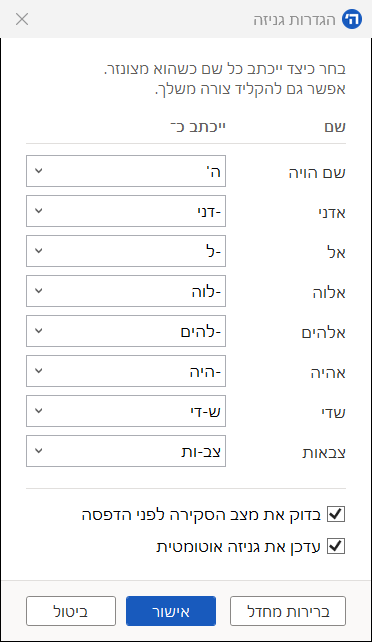
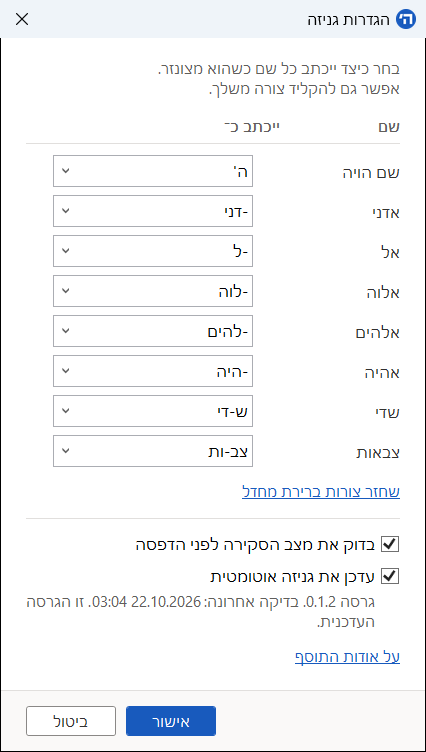
Refresh README with release badge, screenshot walkthrough and halachic background
Align the introduction with the About dialog and show the latest add-in release. Present review, print checks and settings in a compact screenshot layout, using the installed 0.1.2 settings capture.

Add the halachic background with Hebrew source references and clarify the model's limitations.

diff --git a/README.md b/README.md
@@ -1,35 +1,44 @@
 # Genizah
 
-A Word add-in that finds the divine names in a Hebrew document and censors them for you.
+[![Latest version](https://img.shields.io/github/v/release/Pituchey-Hotam/Genizah?filter=v*&label=latest%20version)](https://github.com/Pituchey-Hotam/Genizah/releases/latest)
 
-Once one of the names is written, the paper it's on can't simply be thrown away; it needs
-genizah. Writing the name in a modified form (אלקים for אלהים, ה' for יהוה) avoids that, but
-going through a long document by hand is slow and easy to get wrong. And it isn't a matter of
-search and replace: אל is usually just "to", and אלהים can mean judges or foreign gods. Genizah
-reads each occurrence in its context, censors the ones it's sure are divine names, leaves the
-ones it's sure aren't, and asks you about the rest.
+Genizah is a Word add-in that automatically finds divine names in Hebrew documents and changes
+their spelling, including names that require understanding the context.
+
+Finding these names takes more than search and replace: אל can be a preposition, and אלהים can
+refer to judges or foreign gods. Genizah uses a completely local AI model trained on the Hebrew Bible, prayer
+books and modern Torah articles to estimate whether each occurrence is a divine name. It
+changes likely divine names to modified spellings, leaves likely ordinary uses, and asks you
+to review uncertain cases. The model runs entirely on your computer; your text is never sent
+to an external service. Only update checks need an internet connection.
 
 ![The review pane beside a document](docs/images/review-pane.png)
 
-## How it works
+## Genizah in action
 
-1. **Scan.** Click **סקירת שמות** in the **גניזה** group on Word's **סקירה** (Review) tab. Genizah scans the
-   document and opens a review pane beside it.
-2. **It sorts the names.** Every name it finds goes into one of three groups:
-   - **לצנזר**: divine names. Genizah censors these right away.
-   - **להשאיר**: ordinary words that happen to share the spelling. Left as they are.
-   - **לא בטוח**: the ones it isn't sure about. These wait for you.
-3. **Review.** Go through **לא בטוח**. Each row shows the name in its sentence; select it and
-   Word jumps to the spot in the document. Choose **צנזר** or **השאר**. You can also check the
-   other two groups and change any decision; a censored name can be restored.
+Click <strong>סקירת שמות</strong> in the <strong>גניזה</strong> group on Word's
+<strong>סקירה</strong> (Review) tab to scan the document and open the review pane.
 
-   ![Deciding an uncertain name](docs/images/review-ask.png)
-
-4. **Print.** If you print with names still waiting for a decision, or without having
-   reviewed the document, Genizah asks first, so that nothing goes out uncensored by
-   accident.
-
-   ![The check before printing](docs/images/print-check.png)
+<table>
+<tr>
+<td width="65%" valign="top">
+<p><strong>Review the results.</strong> Names are grouped as <strong>לצנזר</strong> (censored
+automatically), <strong>להשאיר</strong> (left unchanged), or <strong>לא בטוח</strong> (needs your
+decision). Select a row to jump to its place in the document, then choose <strong>צנזר</strong>
+or <strong>השאר</strong>. You can change any decision and restore censored names.</p>
+<a href="docs/images/review-ask.png"><img src="docs/images/review-ask.png" alt="Deciding an uncertain name" width="520"></a>
+<p><strong>Print with a final check.</strong> If names still need a decision, or the document
+hasn't been reviewed, Genizah asks before printing.</p>
+<a href="docs/images/print-check.png"><img src="docs/images/print-check.png" alt="The check before printing" width="520"></a>
+</td>
+<td width="35%" valign="top">
+<p><strong>Choose your settings.</strong> Open the small arrow in the <strong>גניזה</strong>
+ribbon group to choose each name's spelling, toggle print checks and automatic updates,
+and see the installed version and update status.</p>
+<a href="docs/images/settings.png"><img src="docs/images/settings.png" alt="The settings dialog" width="260"></a>
+</td>
+</tr>
+</table>
 
 ## Installing
 
@@ -39,8 +48,28 @@ needs Word for Windows (64-bit). The model is included and runs on your own comp
 documents never leave it and no internet connection is needed. When one is available, Genizah
 updates itself in the background.
 
-**Genizah is an aid, not a guarantee.** It can miss a name or censor a word that isn't one;
-review the document before relying on it.
+**Genizah is an aid, not a guarantee.** It can censor nondivine words; and in rare cases miss a name.
+Review the results before relying on it.
+
+## Halachic background
+
+Maimonides (רמב״ם, הלכות יסודי התורה ו, ב) rules that erasing one of the seven
+divine names is prohibited מדאורייתא; this is also codified in the
+שו״ע. Authorities disagree about biblical verses and Torah writings that do not
+contain divine names. They agree that treating such writings disrespectfully or discarding
+them is prohibited, but differ over the status and conditions of that prohibition.
+
+The add-in was written for the practice followed at Yeshivat Birkat Moshe in Ma'ale Adumim,
+based on the ruling of its Rosh Yeshiva, Rabbi Nahum Eliezer Rabinovitch (שו״ת שיח נחום, סימן עד).
+Following Maimonides, he ruled that the prohibition concerning Torah writings
+without divine names is rabbinic. Under the conditions detailed in that responsum, such pages
+may therefore be placed in the trash or recycled respectfully. In contrast, for pages containing
+explicit divine names require genizah מדאורייתא, must be treated as Shemot and be disposed of accordingly.
+
+**The add-in does not guarantee that a document is exempt from genizah according to every
+opinion.** Some authorities hold that all Torah writings require genizah; according to that
+view, changing the names does not remove the requirement. Each user should consult the
+halachic authority they follow.
 
 ## For developers
 
